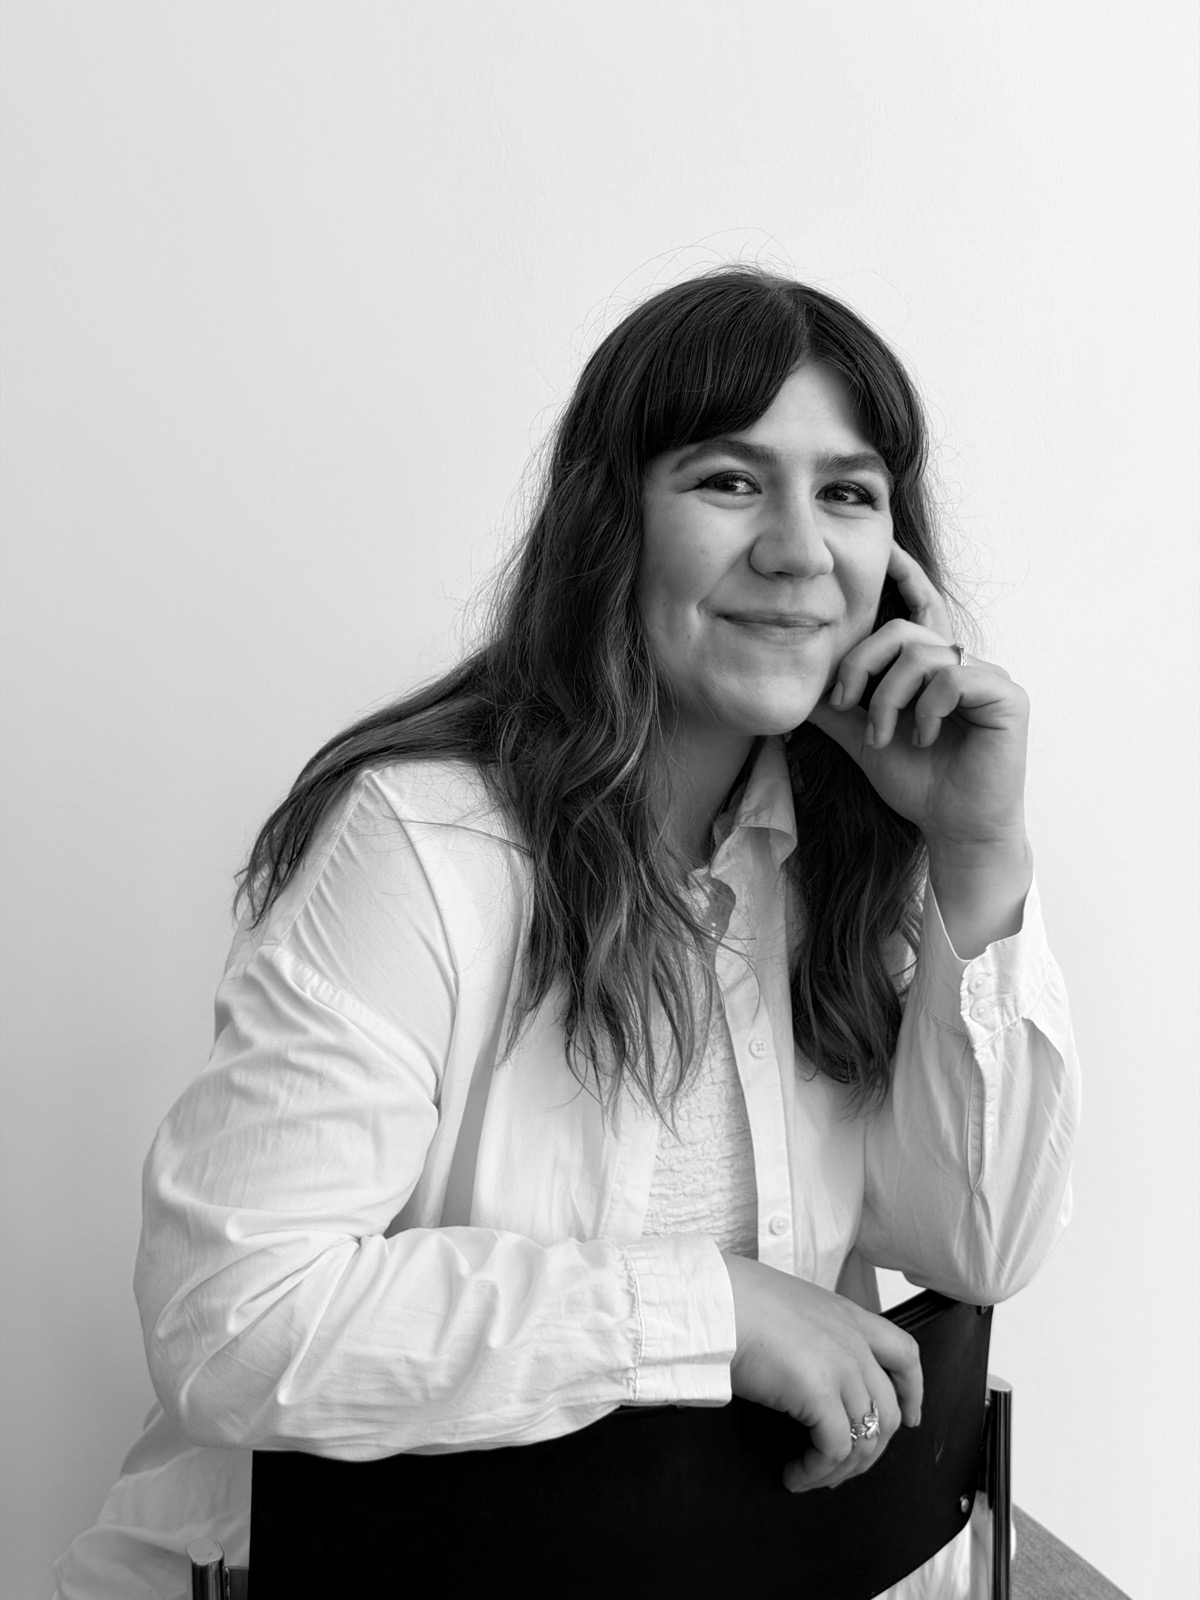
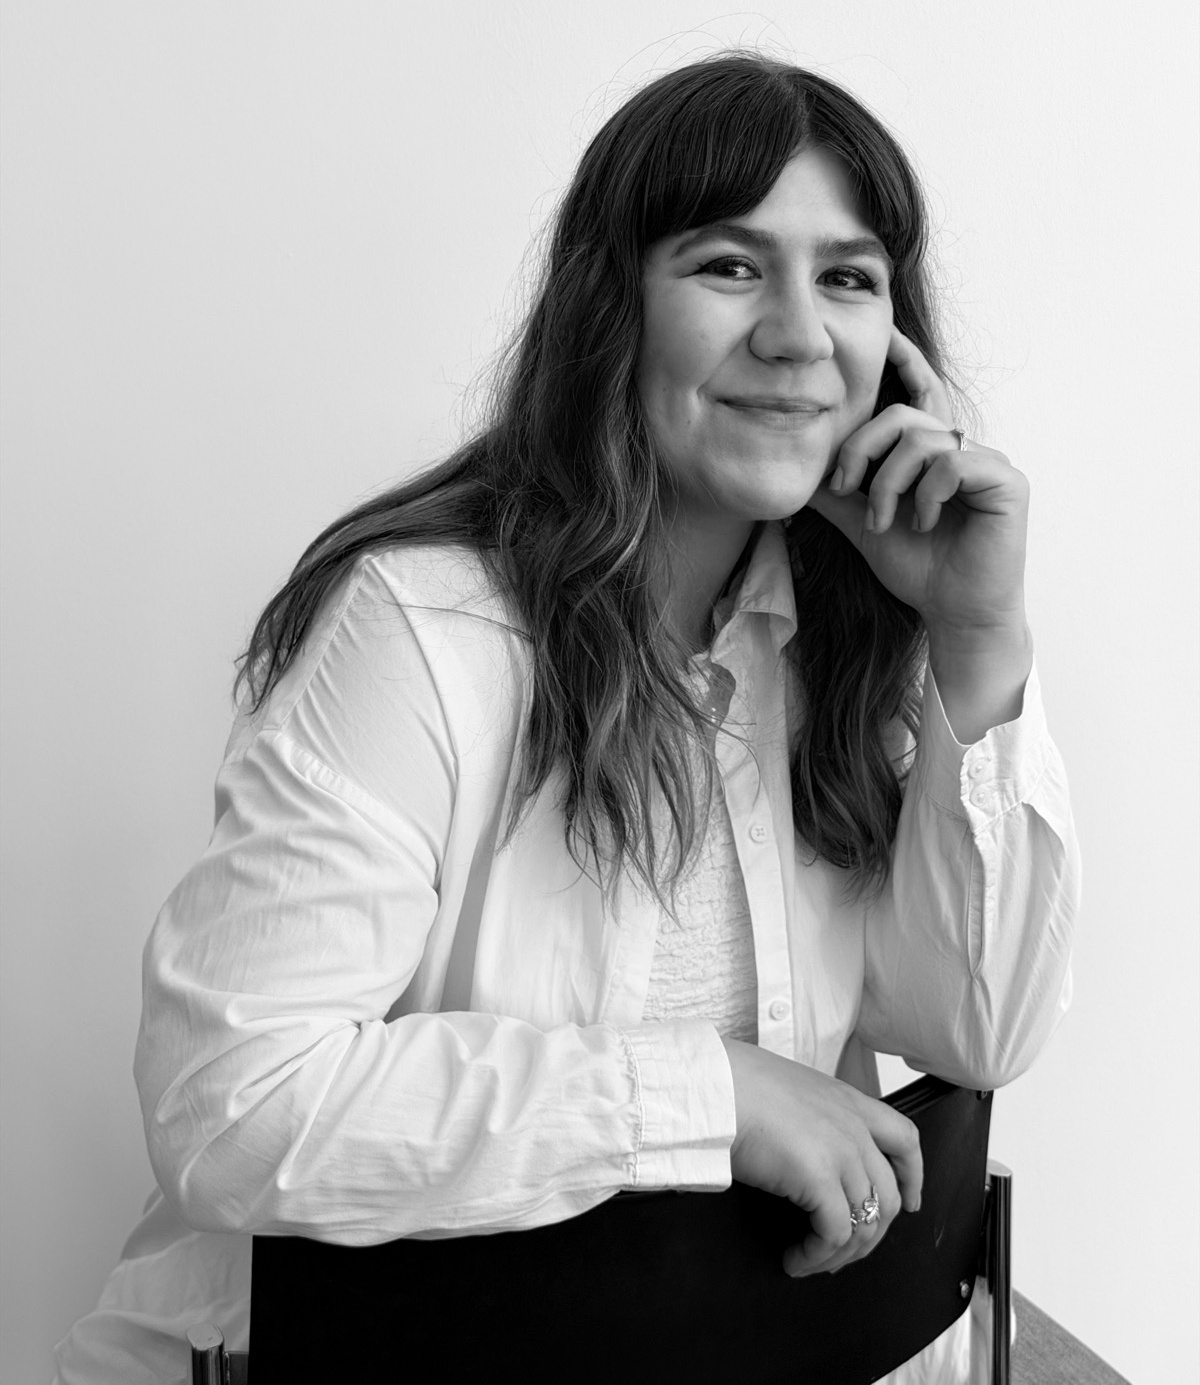
Change in words

diff --git a/src/app/pages/Home.tsx b/src/app/pages/Home.tsx
@@ -6,8 +6,7 @@ import {
   Heart,
   BookOpen,
   Brain,
-  GraduationCap,
-  Shield,
+  Users,
   ChevronLeft,
   ChevronRight,
 } from "lucide-react";
@@ -57,17 +56,10 @@ export default function Home() {
       color: "#FFD4C4",
     },
     {
-      icon: <GraduationCap className="w-10 h-10" />,
-      title: t("home.audience.teachers.title"),
-      description: t("home.audience.teachers.description"),
-      benefits: tList("home.audience.teachers.benefits"),
-      color: "#F9E5A8",
-    },
-    {
-      icon: <Shield className="w-10 h-10" />,
-      title: t("home.audience.healthcare.title"),
-      description: t("home.audience.healthcare.description"),
-      benefits: tList("home.audience.healthcare.benefits"),
+      icon: <Users className="w-10 h-10" />,
+      title: t("home.audience.professionals.title"),
+      description: t("home.audience.professionals.description"),
+      benefits: tList("home.audience.professionals.benefits"),
       color: "#D4C5F9",
     },
   ];
@@ -100,7 +92,7 @@ export default function Home() {
               </motion.div>
 
               <h1
-                className="text-4xl md:text-5xl lg:text-6xl text-[#35322B] mb-6 leading-tight"
+                className="text-4xl md:text-5xl lg:text-6xl text-[#35322B] mb-6 leading-tight text-pretty"
                 style={{ fontFamily: 'Nunito, sans-serif' }}
               >
                 {t("home.heroTitle")}{" "}
@@ -138,7 +130,7 @@ export default function Home() {
                 <ImageWithFallback
                   src={heroImg}
                   alt={t("home.heroImageAlt")}
-                  className="w-full h-[400px] md:h-[500px] object-cover"
+                  className="w-full h-[400px] md:h-[500px] object-cover object-top"
                   loading="eager"
                   fetchPriority="high"
                 />
@@ -328,7 +320,7 @@ export default function Home() {
             </p>
           </motion.div>
 
-          <div className="grid md:grid-cols-3 gap-8">
+          <div className="grid md:grid-cols-2 gap-8 max-w-4xl mx-auto">
             {targetAudiences.map((audience, index) => (
               <motion.div
                 key={index}
@@ -390,7 +382,6 @@ export default function Home() {
               className="inline-flex items-center gap-2 px-8 py-4 bg-white text-[#6E4FD1] rounded-full hover:shadow-2xl hover:scale-105 transition-all duration-300"
             >
               {t("home.cta.button")}
-              <ArrowRight size={20} />
             </Link>
           </motion.div>
         </div>

diff --git a/src/server/availability/slots.js b/src/server/availability/slots.js
@@ -8,8 +8,8 @@ import { AvailabilityBlock } from "../models/AvailabilityBlock.js";
 
 export const TIMEZONE = "Europe/Helsinki";
 export const WORKING_WEEKDAYS = [1, 2, 3, 4, 5]; // Mon-Fri, per Date#getUTCDay()
-export const SLOT_HOURS = [9, 10, 11, 12, 13, 14, 15, 16]; // local hour starts - 16:00 + 45min still fits before 17:00 close
-export const CONSULTATION_MINUTES = 45;
+export const SLOT_HOURS = [9, 10, 11, 12, 13, 14, 15, 16]; // local hour starts - 16:00 + 30min still fits before 17:00 close
+export const CONSULTATION_MINUTES = 30;
 export const PENDING_HOLD_MINUTES = 30; // how long an unpaid checkout holds a slot before it's up for grabs again
 export const BOOKING_WINDOW_DAYS = 42; // how far ahead customers can book - change this one constant to adjust it
 

diff --git a/src/server/payments/paytrailClient.js b/src/server/payments/paytrailClient.js
@@ -97,8 +97,8 @@ export async function createPayment(order) {
         // Finland's standard VAT rate - informational only, Paytrail doesn't recompute
         // `amount` from it. Ask the accountant if this service needs a different rate.
         vatPercentage: 25.5,
-        productCode: "emotional-support-45min",
-        description: description || "Nuppu emotional support consultation (45 min)",
+        productCode: "emotional-support-30min",
+        description: description || "Nuppu emotional support consultation (30 min)",
       },
     ],
     customer: {

diff --git a/src/app/pages/Contact.tsx b/src/app/pages/Contact.tsx
@@ -165,12 +165,6 @@ export default function Contact() {
               </div>
 
               <div className="mt-8 p-6 bg-[#F2EDDE] rounded-2xl">
-                <h3
-                  className="text-lg text-[#35322B] mb-3"
-                  style={{ fontFamily: 'Nunito, sans-serif' }}
-                >
-                  {t("contact.waitlist.title")}
-                </h3>
                 <p className="text-[#6B6660] leading-relaxed">
                   {t("contact.waitlist.text")}
                 </p>

diff --git a/api/index.js b/api/index.js
@@ -1108,7 +1108,7 @@ app.post("/api/payments/create", rateLimitPayments, requireDatabase, async (req,
       stamp,
       reference,
       amountCents,
-      description: "Nuppu emotional support consultation (45 min)",
+      description: "Nuppu emotional support consultation (30 min)",
       customerEmail: payment.customerEmail,
       customerName: payment.customerName,
       successUrl,
